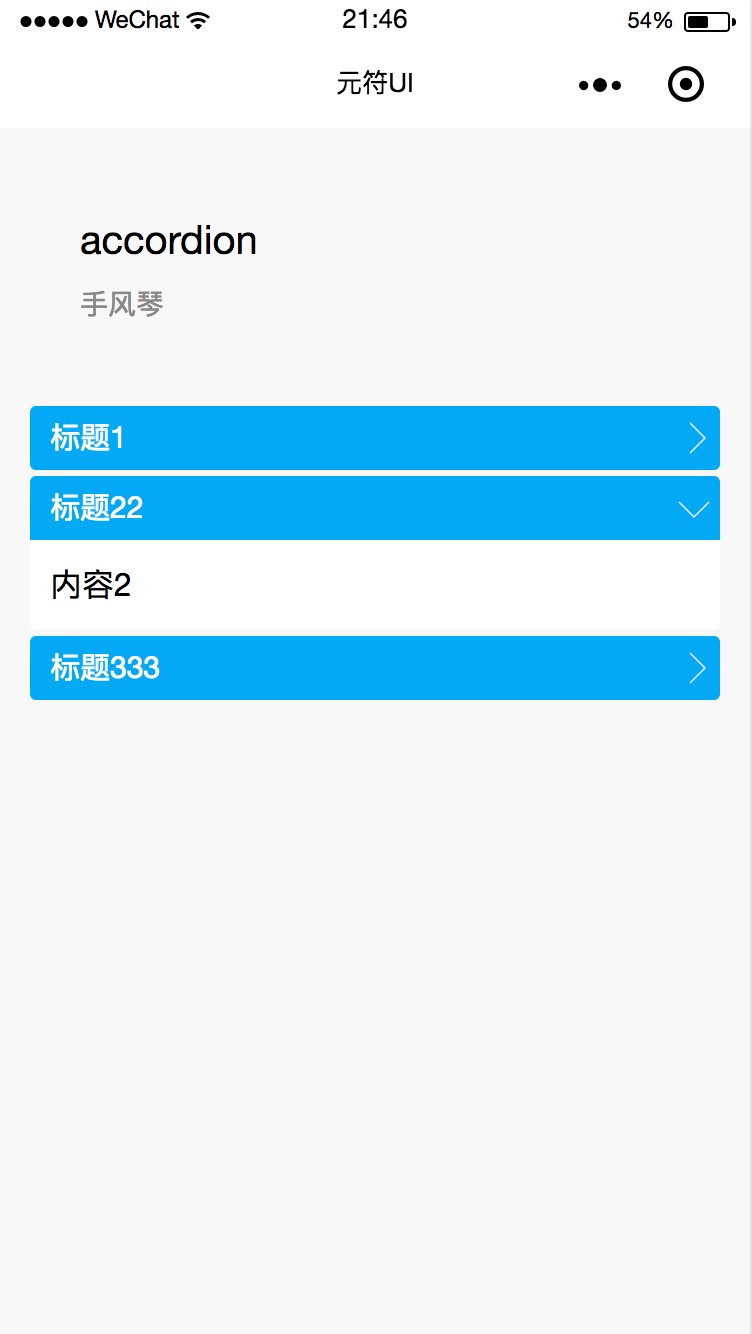
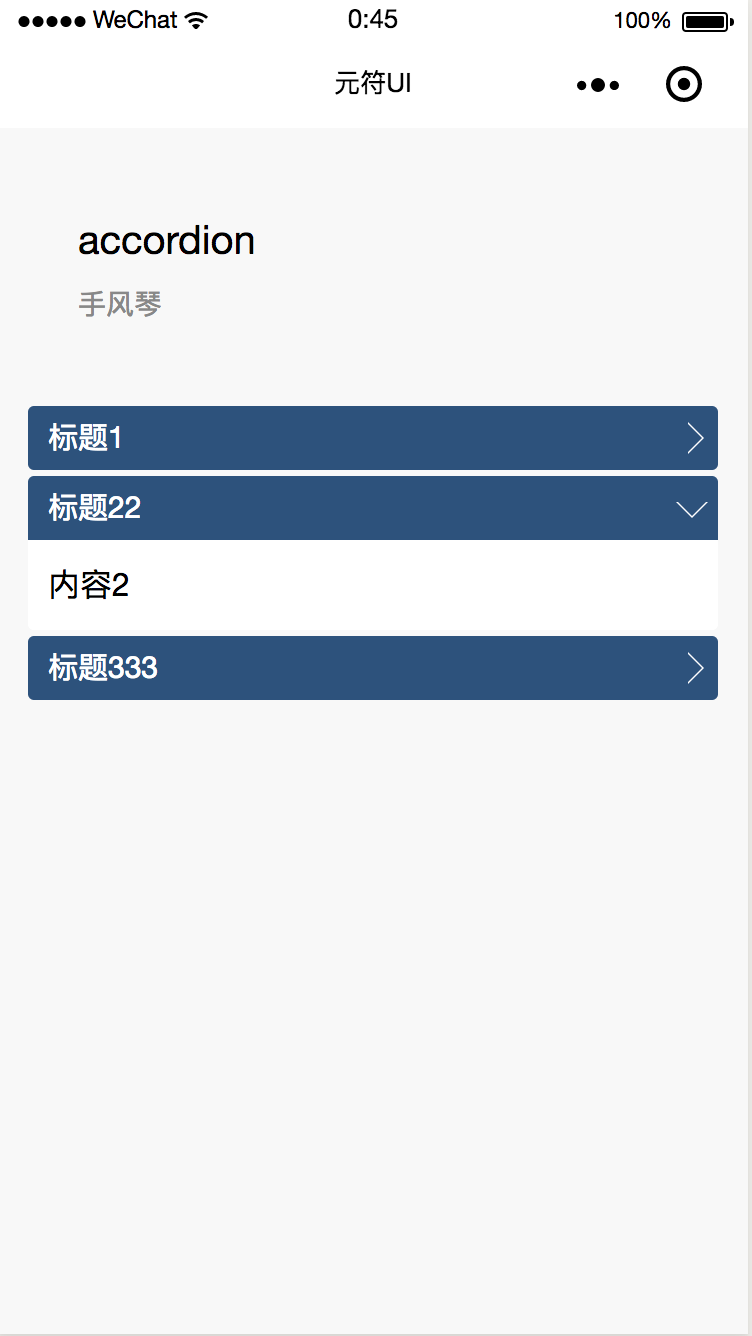
add theme

diff --git a/README.md b/README.md
@@ -71,6 +71,13 @@
 * <img width="10px" height="10px" src="theme/orange.png" /> orange `#f19149`
 * <img width="10px" height="10px" src="theme/red.png" /> red `#f44336`
 * <img width="10px" height="10px" src="theme/green.png" /> green `#009688`
+* <img width="10px" height="10px" src="theme/deep-red.png" /> green `#BC2221`
+* <img width="10px" height="10px" src="theme/deep-blue.png" /> green `#2d527c`
+* <img width="10px" height="10px" src="theme/sea-blue.png" /> green `#005EB8`
+* <img width="10px" height="10px" src="theme/black.png" /> green `#101820`
+* <img width="10px" height="10px" src="theme/gray.png" /> green `#53565A`
+* <img width="10px" height="10px" src="theme/cyan.png" /> green `#23B3D2`
+* <img width="10px" height="10px" src="theme/purple.png" /> green `#464E7E`
 
 <details>
 <summary id="city-index-list">
@@ -85,7 +92,7 @@
   ### 属性
   名称 | 类型 | 默认 | 描述
   --- | --- | --- | ---
-  theme   | String  | `blue`     | 插件主题<br/>支持：`orange`、`red`、`blue`、`green`
+  theme   | String  | `blue`     | 插件主题，参考上面`插件主题颜色值`
   styles  | Object  | `{}`        | 插件自定义样式，支持：<br/>`letterBarBackground` 字母索引背景色<br/>`letterColor` 字母默认颜色<br/>`letterActiveColor` 字母选中的颜色<br/>`closerBackground` 关闭按钮背景
   visible | Boolean | `false`     | 是否显示
 
@@ -154,7 +161,7 @@
   ### 属性
   名称 | 类型 | 默认 | 描述
   --- | --- | --- | ---
-  theme   | String  | `blue`     | 插件主题<br/>支持：`orange`、`red`、`blue`、`green`
+  theme   | String  | `blue`     | 插件主题，参考上面`插件主题颜色值`
   visible | Boolean | `false`     | 是否显示
   placeholder | String | `请输入关键字`     | 输入框默认占位文字
   search-value | String | ''     | 输入框默认值，默认为空
@@ -227,7 +234,7 @@
   ### 属性
   名称 | 类型 | 默认 | 描述
   --- | --- | --- | ---
-  theme   | String  | `blue`     | 插件主题<br/>支持：`orange`、`red`、`blue`、`green`
+  theme   | String  | `blue`     | 插件主题，参考上面`插件主题颜色值`
   visible | Boolean | `false`     | 是否显示
   start-date | String | ''     | 开始日期，必填
   end-date | String | ''     | 结束日期，必填
@@ -298,7 +305,7 @@
   ### 属性
   名称 | 类型 | 默认 | 描述
   --- | --- | --- | ---
-  theme   | String  | `blue`     | 插件主题<br/>支持：`orange`、`red`、`blue`、`green`
+  theme   | String  | `blue`     | 插件主题，参考上面`插件主题颜色值`
   visible | Boolean | `true`     | 是否显示，默认显示
   src | String | `[如图-左]`     | 默认图片
   active-src | String | `[如图-右]`     | 点击之后的图片
@@ -462,7 +469,7 @@
   ### 属性
   名称 | 类型 | 默认 | 描述
   --- | --- | --- | ---
-  theme   | String  | `blue`     | 插件主题<br/>支持：`orange`、`red`、`blue`、`green`
+  theme   | String  | `blue`     | 插件主题，参考上面`插件主题颜色值`
   visible | Boolean | `false`     | 是否显示
   content | String | ''     | 文案内容
   animation | Boolean | `true`     | 是否滚动
@@ -535,15 +542,15 @@
   ### 属性
   名称 | 类型 | 默认 | 描述
   --- | --- | --- | ---
-  theme   | String  | `blue`     | 插件主题<br/>支持：`orange`、`red`、`blue`、`green`
-  ico | String | ''     | 图标类型，参考上图种类
+  theme   | String  | `blue`     | 插件主题，参考上面`插件主题颜色值`
+  icon | String | ''     | 图标类型，参考上图种类
   size | String | `40rpx`     | 图标大小
   color | String | ''     | 图标颜色，默认theme主题色
 
   ### 事件
   名称 | 参数 | 描述
   --- | --- | ---
-  tapico  | `event` | 点击图标的事件，`event.detail.ico`为点击图标的类型
+  tapico  | `event` | 点击图标的事件，`event.detail.icon`为点击图标的类型
   ### 使用
   page.json
   ```json
@@ -558,7 +565,7 @@
   ```html
     <ico
         theme="deep-blue"
-        ico="shouye"
+        icon="shouye"
         size="50rpx"
         bind:tapico="tapico"
     />
@@ -590,13 +597,13 @@
   ### 属性
   名称 | 类型 | 默认 | 描述
   --- | --- | --- | ---
-  theme   | String  | `blue`     | 插件主题<br/>支持：`orange`、`red`、`blue`、`green`
+  theme   | String  | `blue`     | 插件主题，参考上面`插件主题颜色值`
   themetype | String | `border`     | 风格，支持`border`、`background`两种类型（如图）
   vertical | Boolean | `false`     | 是否是垂直
   slotname | String | `tabs`     | 内容`slot`的名称前缀
   option | Array | `[]`     | 标题配置
   active-index | Number | `0`     | 默认激活位置
-  styles | Object | `{}`     | 插件自定义样式，支持：<br/>`color` 文字颜色<br/>`fontSize` 文字大小<br/>`background` 背景色<br/>`border` 边框
+  styles | Object | `{}`     | 插件自定义样式，支持：<br/>`color` 文字颜色<br/>`fontSize` 文字大小<br/>`backgroundColor` 背景色<br/>`border` 边框
 
   ### 事件
   名称 | 参数 | 描述
@@ -654,9 +661,10 @@
   ### 属性
   名称 | 类型 | 默认 | 描述
   --- | --- | --- | ---
+  theme   | String  | `blue`     | 插件主题，参考上面`插件主题颜色值`
   visible | Boolean | `true`     | 是否显示
   type | String | `default`     | 加载动画类型，支持：`default`、`cube`、`pulse`、`knock`、`fade-circle`、`rotate`
-  modal | Boolean | `false`     | 是否是遮罩类型
+  modal | Boolean | `false`     | 是否是模态
 
   ### 使用
   page.json
@@ -691,10 +699,11 @@
   ### 属性
   名称 | 类型 | 默认 | 描述
   --- | --- | --- | ---
-  theme   | String  | `blue`     | 插件主题<br/>支持：`orange`、`red`、`blue`、`green`
+  theme   | String  | `blue`     | 插件主题，参考上面`插件主题颜色值`
   slotname | String | `accordion`     | 内容`slot`的名称前缀
   option | Array | `[]`     | 标题配置
   active-index | Number | `-1`     | 默认展开的索引（-1表示默认不展开）
+  styles | Object | `{}`     | 插件自定义样式，支持：<br/>`color` 文字颜色<br/>`fontSize` 文字大小<br/>`backgroundColor` 背景色
 
   ### 事件
   名称 | 参数 | 描述
